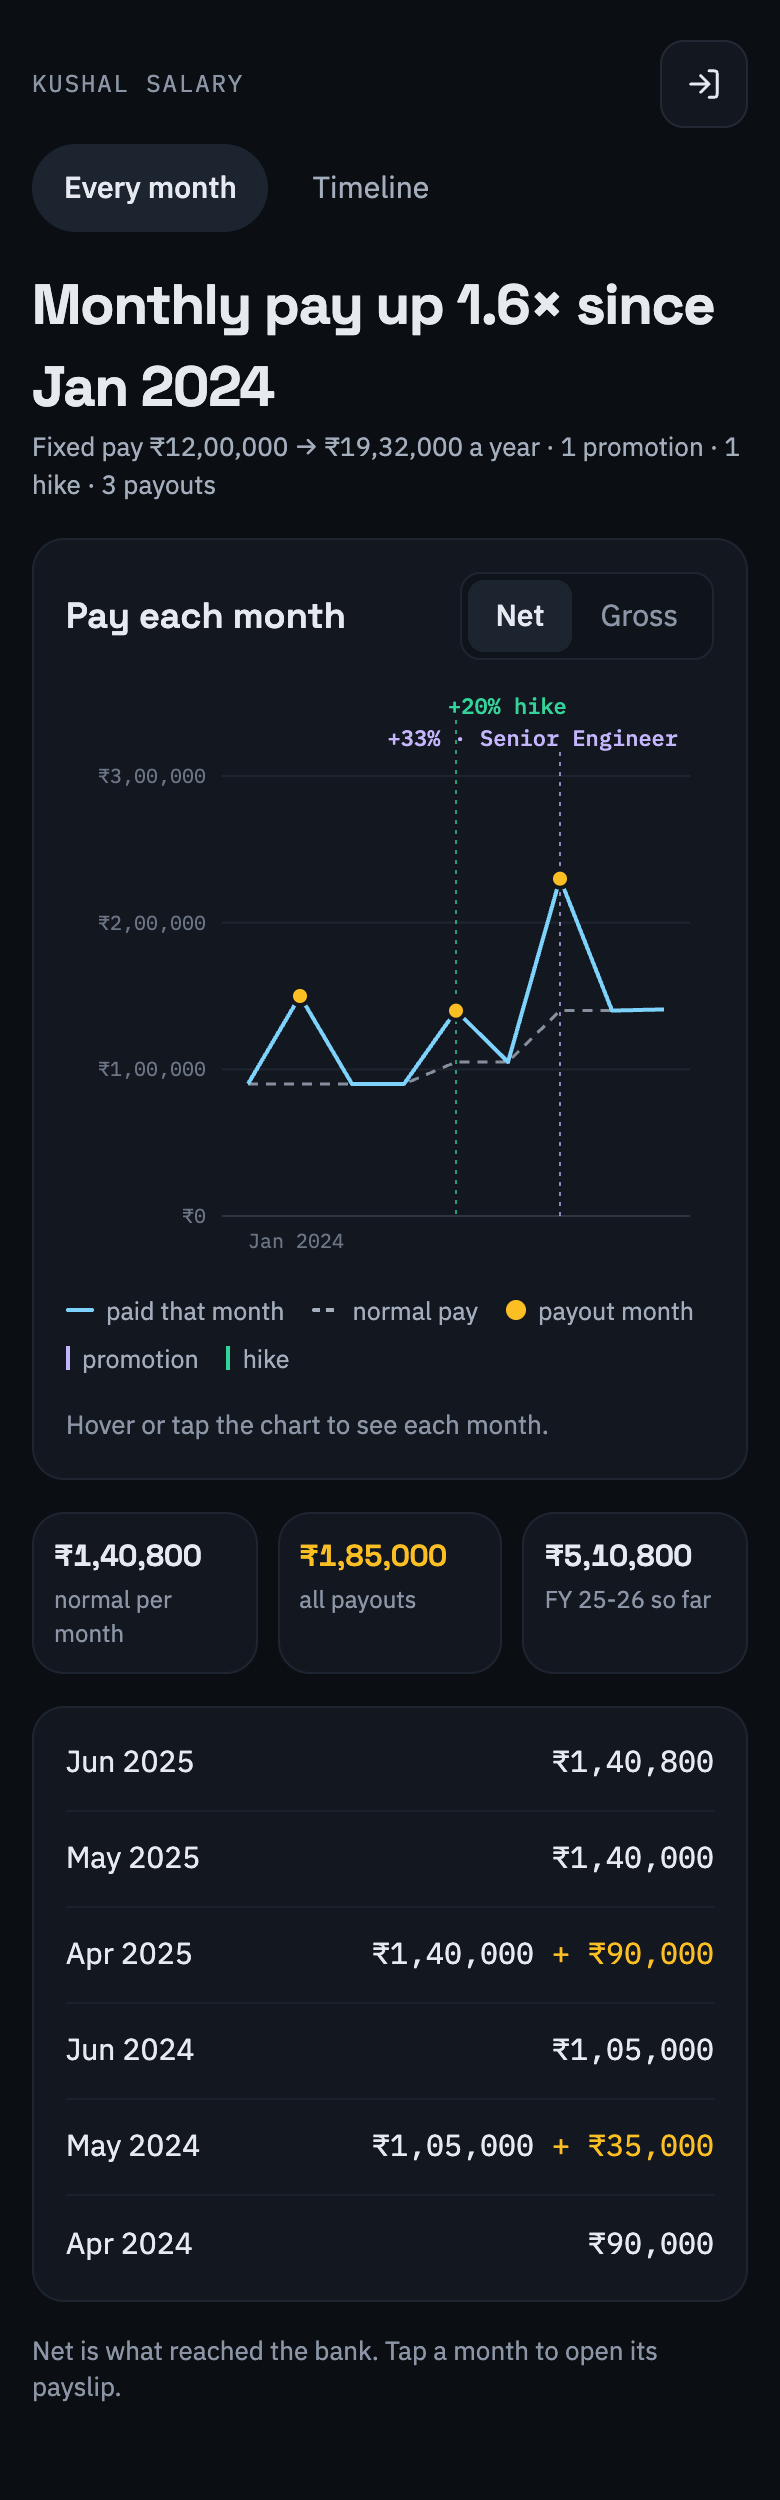
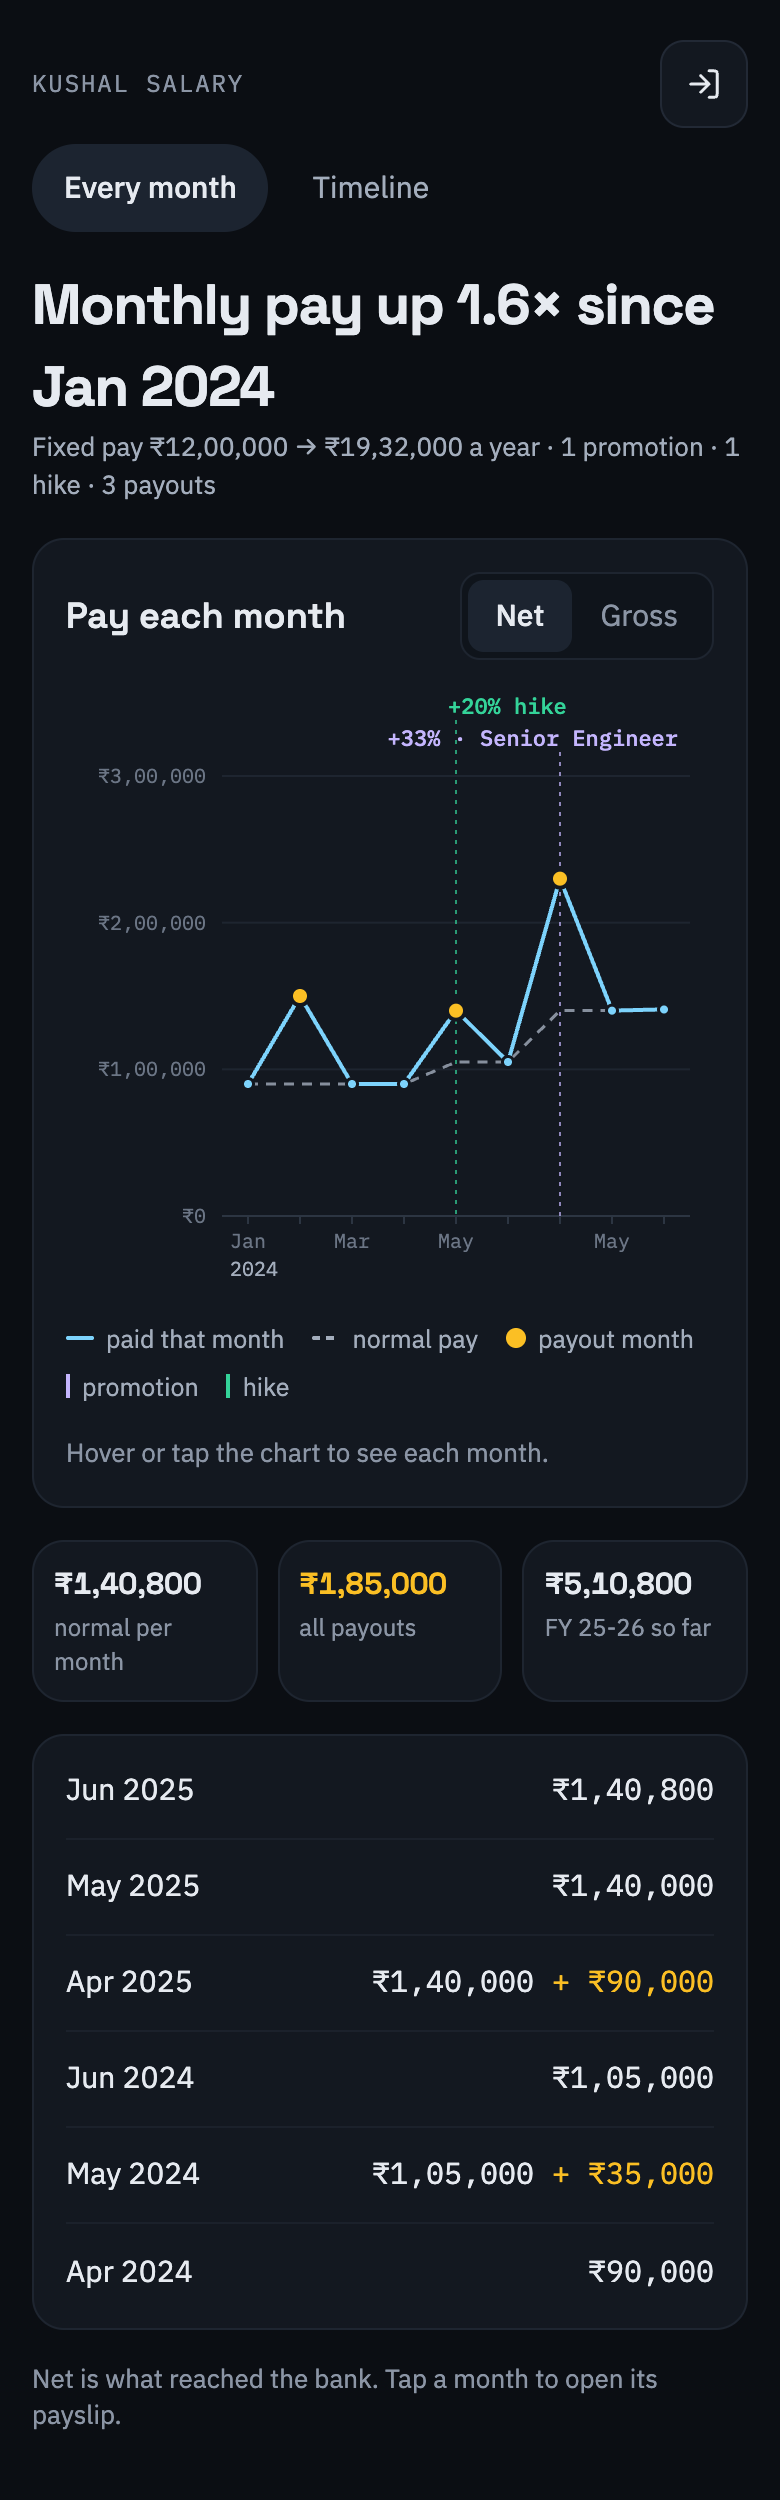
feat(kushal-salary): month points and axis labels

diff --git a/apps/kushal-salary/src/client/MonthChart.tsx b/apps/kushal-salary/src/client/MonthChart.tsx
@@ -7,7 +7,8 @@ const PADL = 78 // room for full rupee amounts on the y axis
 const PADR = 12
 const ROW = 16 // one row of event labels above the plot
 const PLOT = 220
-const XAXIS = 22
+const XAXIS = 36 // month row + year row
+const MON = ['Jan', 'Feb', 'Mar', 'Apr', 'May', 'Jun', 'Jul', 'Aug', 'Sep', 'Oct', 'Nov', 'Dec']
 const CHAR = 6.6 // px per character of the 11px mono label font
 
 type Props = { bars: Bar[]; labels: Record<string, string[]>; marks: ChartMark[] }
@@ -55,6 +56,8 @@ export default function MonthChart({ bars, labels, marks: markList }: Props) {
   const W = Math.max(boxW, PADL + PADR + n * 5)
   const step = (W - PADL - PADR) / n
   const cx = (i: number) => PADL + (i + 0.5) * step
+  // Label every month when labels get 30px, else every 2nd, 3rd or 6th calendar month.
+  const every = [1, 2, 3, 6].find((e) => step * e >= 30) ?? 12
   const t = ticks(Math.max(...bars.map((b) => b.base + b.extra), 1))
 
   const marks = placeLabels(
@@ -110,13 +113,26 @@ export default function MonthChart({ bars, labels, marks: markList }: Props) {
               </text>
             </g>
           ))}
-          {bars.map((b, i) =>
-            i === 0 || b.month.endsWith('-01') ? (
-              <text key={b.month} x={cx(i)} y={BOT + 16} textAnchor={i === 0 ? 'start' : 'middle'} className="axis">
-                {i === 0 ? monLabel(b.month) : b.month.slice(0, 4)}
-              </text>
-            ) : null,
-          )}
+          {bars.map((b, i) => {
+            const mo = Number(b.month.slice(5, 7))
+            const showMonth = (mo - 1) % every === 0
+            const showYear = i === 0 || b.month.slice(0, 4) !== bars[i - 1].month.slice(0, 4)
+            return (
+              <g key={b.month}>
+                <line x1={cx(i)} x2={cx(i)} y1={BOT} y2={BOT + 4} className="tick" />
+                {showMonth && (
+                  <text x={cx(i)} y={BOT + 16} textAnchor="middle" className="axis" data-testid="month-label">
+                    {MON[mo - 1]}
+                  </text>
+                )}
+                {showYear && (
+                  <text x={cx(i) - (showMonth ? 9 : 0)} y={BOT + 30} className="axis axis-year">
+                    {b.month.slice(0, 4)}
+                  </text>
+                )}
+              </g>
+            )
+          })}
           {marks.map((m) => (
             <g key={`${m.type}-${m.i}`} data-testid="event-mark">
               <line x1={m.cx} x2={m.cx} y1={m.row * ROW + 14} y2={BOT} className={`guide guide-${m.type === 'promotion' ? 'promo' : 'hike'}`} />
@@ -128,7 +144,11 @@ export default function MonthChart({ bars, labels, marks: markList }: Props) {
           <path d={normal} className="line-normal" />
           <path d={paid} className="line-paid" />
           {bars.map((b, i) =>
-            b.extra > 0 ? <circle key={b.month} data-testid="payout-dot" cx={cx(i)} cy={y(b.base + b.extra)} r={4.5} className="dot-payout" /> : null,
+            b.extra > 0 ? (
+              <circle key={b.month} data-testid="payout-dot" cx={cx(i)} cy={y(b.base + b.extra)} r={4.5} className="dot-payout" />
+            ) : (
+              <circle key={b.month} data-testid="month-point" cx={cx(i)} cy={y(b.base)} r={2.75} className="dot-month" />
+            ),
           )}
           {h && hover !== null && (
             <g className="crosshair">

diff --git a/apps/kushal-salary/test/ui.test.tsx b/apps/kushal-salary/test/ui.test.tsx
@@ -37,9 +37,16 @@ describe('Every month tab', () => {
     expect(localStorage.getItem('ksalary.mode')).toBe('gross')
   })
 
-  it('marks each payout month with a dot', () => {
+  it('puts a point on every month, payout months in amber', () => {
     render(<MonthsTab months={fixture} />)
     expect(screen.getAllByTestId('payout-dot')).toHaveLength(3)
+    expect(screen.getAllByTestId('month-point')).toHaveLength(6)
+  })
+
+  it('labels the months on the x axis', () => {
+    render(<MonthsTab months={fixture} />)
+    const labels = screen.getAllByTestId('month-label').map((t) => t.textContent)
+    expect(labels).toEqual(['Jan', 'Mar', 'May', 'May'])
   })
 
   it('shows full amounts for a month on hover', () => {

diff --git a/apps/kushal-salary/src/client/styles.css b/apps/kushal-salary/src/client/styles.css
@@ -702,3 +702,14 @@ a.row:hover {
   height: 12px;
   border-radius: 0;
 }
+.chart .dot-month {
+  fill: var(--accent);
+  stroke: var(--card);
+  stroke-width: 1.5;
+}
+.chart .tick {
+  stroke: #2c3542;
+}
+.chart .axis-year {
+  fill: var(--soft);
+}
